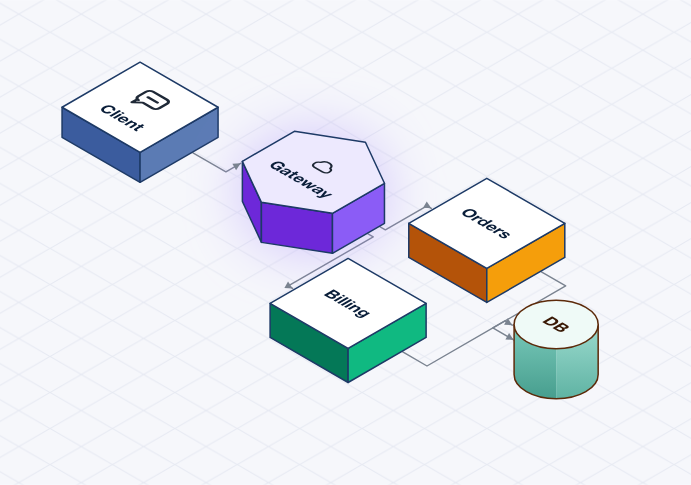
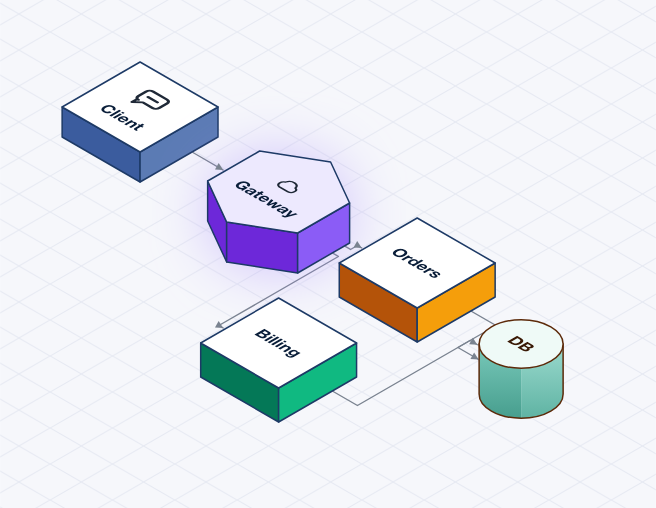
M6 polish: median alignment + crossing reduction for auto-layout
Connector beauty in auto-layout is really a coordinate-assignment
problem: edges jog into Ls only when connected parts sit on different
grid rows. Added the Sugiyama back half to arrangeAuto — barycentre
ordering within ranks (4 sweeps, crossing reduction) then median
alignment (6 down/up passes pulling each node to its neighbours'
median y, overlap-resolved in both directions). Connected chains now
land on a shared row so the orthogonal router collapses them to single
on-axis segments; the spine client→gateway→orders is now straight.
Merges (two sources → one sink) keep one unavoidable L each.

auto-flow golden + visreg refreshed; full suite green.

diff --git a/layout.go b/layout.go
@@ -179,25 +179,109 @@ func arrangeAuto(parts []*CompositePart, conns []*Connector, lay *Layout, cell f
 		x += maxW + gapW
 	}
 
-	rankExtent := make([]float64, len(ranks))
+	// Undirected neighbour map for crossing reduction + median alignment.
+	nbr := map[string][]string{}
+	for u, vs := range adj {
+		for _, v := range vs {
+			nbr[u] = append(nbr[u], v)
+			nbr[v] = append(nbr[v], u)
+		}
+	}
+
+	// y-CENTRE of each part, packed within its rank in current order.
+	cy := map[string]float64{}
 	maxExtent := 0.0
 	for r := range ranks {
 		ext := 0.0
-		for _, id := range ranks[r] {
+		for i, id := range ranks[r] {
+			if i > 0 {
+				ext += gapW
+			}
 			ext += fd[id]
 		}
-		if n := len(ranks[r]); n > 1 {
-			ext += float64(n-1) * gapW
-		}
-		rankExtent[r] = ext
 		if ext > maxExtent {
 			maxExtent = ext
+		}
+	}
+	packRank := func(r int) {
+		y := (maxExtent - rankSpan(ranks[r], fd, gapW)) / 2
+		for _, id := range ranks[r] {
+			cy[id] = y + fd[id]/2
+			y += fd[id] + gapW
+		}
+	}
+	for r := range ranks {
+		packRank(r)
+	}
+
+	// Crossing reduction: order each rank by the barycentre of its
+	// neighbours' y in the adjacent rank, alternating sweep direction.
+	for sweep := 0; sweep < 4; sweep++ {
+		down := sweep%2 == 0
+		seq := make([]int, len(ranks))
+		for i := range seq {
+			if down {
+				seq[i] = i
+			} else {
+				seq[i] = len(ranks) - 1 - i
+			}
+		}
+		for _, r := range seq {
+			bc := map[string]float64{}
+			for _, id := range ranks[r] {
+				sum, cnt := 0.0, 0
+				for _, m := range nbr[id] {
+					if _, ok := cy[m]; ok {
+						sum += cy[m]
+						cnt++
+					}
+				}
+				if cnt > 0 {
+					bc[id] = sum / float64(cnt)
+				} else {
+					bc[id] = cy[id]
+				}
+			}
+			sortByKeyStable(ranks[r], bc)
+			packRank(r)
+		}
+	}
+
+	// Median alignment: pull each node toward the median y of its
+	// neighbours, then resolve overlaps within the rank in order. A few
+	// down+up passes straighten chains so most edges collapse to a
+	// single on-axis segment (the router merges collinear endpoints).
+	for pass := 0; pass < 6; pass++ {
+		down := pass%2 == 0
+		seq := make([]int, len(ranks))
+		for i := range seq {
+			if down {
+				seq[i] = i
+			} else {
+				seq[i] = len(ranks) - 1 - i
+			}
+		}
+		for _, r := range seq {
+			want := make([]float64, len(ranks[r]))
+			for i, id := range ranks[r] {
+				ys := []float64{}
+				for _, m := range nbr[id] {
+					if y, ok := cy[m]; ok {
+						ys = append(ys, y)
+					}
+				}
+				if len(ys) > 0 {
+					want[i] = medianOf(ys)
+				} else {
+					want[i] = cy[id]
+				}
+			}
+			resolveRank(ranks[r], want, fd, gapW, cy)
 		}
 	}
 
 	snap := func(v float64) float64 { return math.Round(v/cell) * cell }
 	for r := range ranks {
-		y := (maxExtent - rankExtent[r]) / 2
 		maxW := 0.0
 		for _, id := range ranks[r] {
 			if fw[id] > maxW {
@@ -210,8 +294,67 @@ func arrangeAuto(parts []*CompositePart, conns []*Connector, lay *Layout, cell f
 				p.Offset = &WorldPoint{}
 			}
 			p.Offset.WX = snap(rankX[r] + (maxW-fw[id])/2)
-			p.Offset.WY = snap(y)
-			y += fd[id] + gapW
+			p.Offset.WY = snap(cy[id] - fd[id]/2)
+		}
+	}
+}
+
+func rankSpan(ids []string, fd map[string]float64, gapW float64) float64 {
+	ext := 0.0
+	for i, id := range ids {
+		if i > 0 {
+			ext += gapW
+		}
+		ext += fd[id]
+	}
+	return ext
+}
+
+// sortByKeyStable stable-sorts ids ascending by key[id].
+func sortByKeyStable(ids []string, key map[string]float64) {
+	for i := 1; i < len(ids); i++ {
+		for j := i; j > 0 && key[ids[j]] < key[ids[j-1]]-1e-9; j-- {
+			ids[j], ids[j-1] = ids[j-1], ids[j]
+		}
+	}
+}
+
+func medianOf(v []float64) float64 {
+	s := append([]float64(nil), v...)
+	for i := 1; i < len(s); i++ {
+		for j := i; j > 0 && s[j] < s[j-1]; j-- {
+			s[j], s[j-1] = s[j-1], s[j]
+		}
+	}
+	n := len(s)
+	if n == 0 {
+		return 0
+	}
+	if n%2 == 1 {
+		return s[n/2]
+	}
+	return (s[n/2-1] + s[n/2]) / 2
+}
+
+// resolveRank sets each node's centre y to its desired value, then
+// sweeps to enforce the minimum centre-to-centre spacing (half-depths +
+// gap) in BOTH directions so the rank neither overlaps nor drifts.
+func resolveRank(ids []string, want []float64, fd map[string]float64, gapW float64, cy map[string]float64) {
+	for i, id := range ids {
+		cy[id] = want[i]
+	}
+	// forward: push down to clear overlaps
+	for i := 1; i < len(ids); i++ {
+		minGap := fd[ids[i-1]]/2 + fd[ids[i]]/2 + gapW
+		if cy[ids[i]] < cy[ids[i-1]]+minGap {
+			cy[ids[i]] = cy[ids[i-1]] + minGap
+		}
+	}
+	// backward: pull up where the forward pass overshot past desired
+	for i := len(ids) - 2; i >= 0; i-- {
+		minGap := fd[ids[i]]/2 + fd[ids[i+1]]/2 + gapW
+		if cy[ids[i]] > cy[ids[i+1]]-minGap {
+			cy[ids[i]] = cy[ids[i+1]] - minGap
 		}
 	}
 }